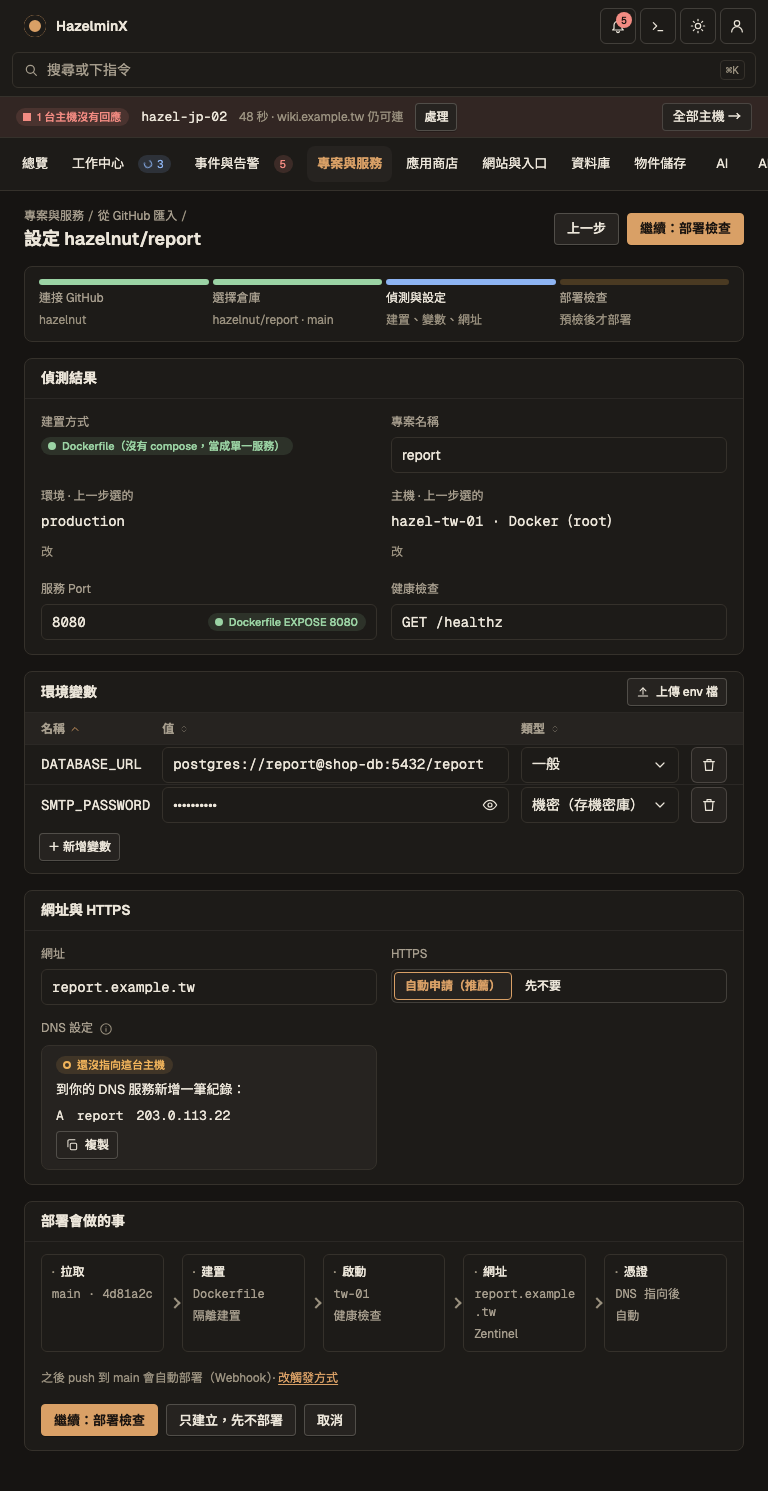
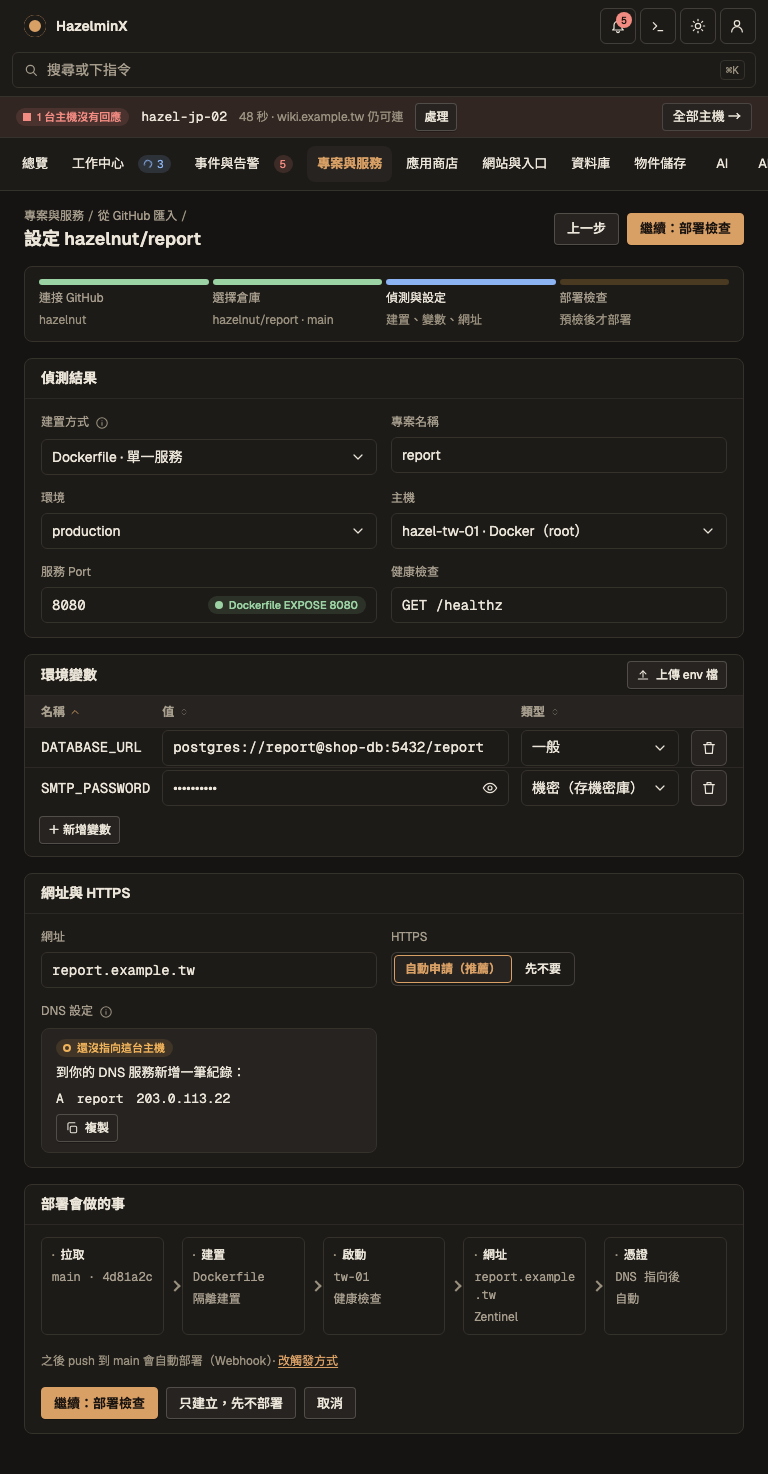
design: make build, environment and host editable dropdowns on the import board

diff --git a/design/screens/ImportConfigure.dc.html b/design/screens/ImportConfigure.dc.html
@@ -496,7 +496,7 @@ body{margin:0}
     <button type="button" class="nv coll" aria-label="收合側欄"><svg viewBox="0 0 24 24" width="16" height="16" fill="none" stroke="currentColor" stroke-width="1.8" stroke-linecap="round" stroke-linejoin="round" aria-hidden="true"><path d="m14 7-5 5 5 5"/><path d="M4 4v16"/></svg><span>收合</span></button>
   </nav><main class="main">
     <div class="phead"><div class="name"><nav class="pcrumb" aria-label="位置"><a href="Projects.dc.html">專案與服務</a><span class="sep" aria-hidden="true">/</span><a href="GitHubSource.dc.html">從 GitHub 匯入</a><span class="sep" aria-hidden="true">/</span></nav><h1>設定 hazelnut/report</h1></div>
-      <div class="wrap" style="margin-left:auto"><a class="btn" href="GitHubSource.dc.html">上一步</a><a class="btn pri" href="ComposeCompat.dc.html">繼續：部署檢查</a></div></div><div class="panel" style="padding:12px 14px"><div class="steps"><div class="step done"><b aria-hidden="true"></b><span>連接 GitHub</span><span class="note">hazelnut</span></div><div class="step done"><b aria-hidden="true"></b><span>選擇倉庫</span><span class="note">hazelnut/report · main</span></div><div class="step cur"><b aria-hidden="true"></b><span>偵測與設定</span><span class="note">建置、變數、網址</span></div><div class="step todo"><b aria-hidden="true"></b><span>部署檢查</span><span class="note">預檢後才部署</span></div></div></div><div class="cg"><section class="panel"><div class="ph"><h2>偵測結果</h2></div><div style="padding:14px 16px;display:grid;grid-template-columns:repeat(auto-fit,minmax(min(240px,100%),1fr));gap:14px"><div class="field"><label>建置方式</label><span class="st ok"><i aria-hidden="true"></i>Dockerfile（沒有 compose，當成單一服務）</span></div><div class="field"><label>專案名稱</label><div class="inp"><span class="" style="flex:1;min-width:0;overflow-wrap:anywhere">report</span></div></div><div class="field"><label>環境 · 上一步選的</label><span class="mono">production</span> <a href="GitHubSource.dc.html" class="note">改</a></div><div class="field"><label>主機 · 上一步選的</label><span class="mono">hazel-tw-01 · Docker（root）</span> <a href="GitHubSource.dc.html" class="note">改</a></div><div class="field"><label>服務 Port</label><div class="inp"><span class="mono" style="flex:1;min-width:0;overflow-wrap:anywhere">8080</span><span class="st ok"><i aria-hidden="true"></i>Dockerfile EXPOSE 8080</span></div></div><div class="field"><label>健康檢查</label><div class="inp"><span class="mono" style="flex:1;min-width:0;overflow-wrap:anywhere">GET /healthz</span></div></div></div></section><section class="panel"><div class="ph"><h2>環境變數</h2><a class="btn sm" style="margin-left:auto" href="EnvUpload.dc.html"><svg viewBox="0 0 24 24" width="14" height="14" fill="none" stroke="currentColor" stroke-width="1.8" stroke-linecap="round" stroke-linejoin="round" aria-hidden="true"><path d="M12 16V5"/><path d="m7 10 5-5 5 5"/><path d="M4 19h16"/></svg>上傳 env 檔</a></div><div class="tw" style="--tc:auto minmax(min(160px,34%),1fr) auto auto"><div class="row hd r0"><span class=""><span class="sortable on">名稱 <svg viewBox="0 0 24 24" width="12" height="12" fill="none" stroke="currentColor" stroke-width="1.8" stroke-linecap="round" stroke-linejoin="round" aria-hidden="true"><path d="m6 15 6-6 6 6"/></svg></span></span><span class=""><span class="sortable">值 <svg viewBox="0 0 24 24" width="12" height="12" fill="none" stroke="currentColor" stroke-width="1.8" stroke-linecap="round" stroke-linejoin="round" aria-hidden="true"><path d="m8 10 4-4 4 4"/><path d="m8 14 4 4 4-4"/></svg></span></span><span class=""><span class="sortable">類型 <svg viewBox="0 0 24 24" width="12" height="12" fill="none" stroke="currentColor" stroke-width="1.8" stroke-linecap="round" stroke-linejoin="round" aria-hidden="true"><path d="m8 10 4-4 4 4"/><path d="m8 14 4 4 4-4"/></svg></span></span><span class=""></span></div><div class="row r0"><span><span class="mono">DATABASE_URL</span></span><span><div class="inp"><span class="mono" style="flex:1;min-width:0;overflow-wrap:anywhere">postgres://report@shop-db:5432/report</span></div></span><span><div class="inp"><span style="flex:1;min-width:0;overflow-wrap:anywhere">一般</span><svg viewBox="0 0 24 24" width="16" height="16" fill="none" stroke="currentColor" stroke-width="1.8" stroke-linecap="round" stroke-linejoin="round" aria-hidden="true"><path d="m6 9 6 6 6-6"/></svg></div></span><span><button type="button" class="ib" aria-label="移除這列"><svg viewBox="0 0 24 24" width="16" height="16" fill="none" stroke="currentColor" stroke-width="1.8" stroke-linecap="round" stroke-linejoin="round" aria-hidden="true"><path d="M4 7h16M9 7V4h6v3M6 7l1 13h10l1-13"/></svg></button></span></div><div class="row r0"><span><span class="mono">SMTP_PASSWORD</span></span><span><div class="inp"><span class="" style="flex:1;min-width:0;overflow-wrap:anywhere">••••••••••</span><svg viewBox="0 0 24 24" width="16" height="16" fill="none" stroke="currentColor" stroke-width="1.8" stroke-linecap="round" stroke-linejoin="round" aria-hidden="true"><path d="M2 12s4-7 10-7 10 7 10 7-4 7-10 7S2 12 2 12z"/><circle cx="12" cy="12" r="3"/></svg></div></span><span><div class="inp"><span style="flex:1;min-width:0;overflow-wrap:anywhere">機密（存機密庫）</span><svg viewBox="0 0 24 24" width="16" height="16" fill="none" stroke="currentColor" stroke-width="1.8" stroke-linecap="round" stroke-linejoin="round" aria-hidden="true"><path d="m6 9 6 6 6-6"/></svg></div></span><span><button type="button" class="ib" aria-label="移除這列"><svg viewBox="0 0 24 24" width="16" height="16" fill="none" stroke="currentColor" stroke-width="1.8" stroke-linecap="round" stroke-linejoin="round" aria-hidden="true"><path d="M4 7h16M9 7V4h6v3M6 7l1 13h10l1-13"/></svg></button></span></div></div><div style="padding:8px 14px 12px"><button type="button" class="btn sm">＋ 新增變數</button></div></section></div><section class="panel"><div class="ph"><h2>網址與 HTTPS</h2></div><div style="padding:14px 16px;display:grid;grid-template-columns:repeat(auto-fit,minmax(min(240px,100%),1fr));gap:14px"><div class="field"><label>網址</label><div class="inp"><span class="mono" style="flex:1;min-width:0;overflow-wrap:anywhere">report.example.tw</span></div></div><div class="field"><label>HTTPS</label><div class="range" role="group" aria-label="HTTPS" style="flex-wrap:wrap"><button type="button" class="btn on" aria-pressed="true">自動申請（推薦）</button><button type="button" class="btn" aria-pressed="false">先不要</button></div></div><div class="field"><label>DNS 設定 <span class="hint" tabindex="0" role="img" aria-label="設定好後這裡會自動變綠，再申請憑證" data-tip="設定好後這裡會自動變綠，再申請憑證"><svg viewBox="0 0 24 24" width="14" height="14" fill="none" stroke="currentColor" stroke-width="1.8" stroke-linecap="round" stroke-linejoin="round" aria-hidden="true"><circle cx="12" cy="12" r="9"/><path d="M12 11v5M12 8h.01"/></svg></span></label><div class="banner" style="display:flex;flex-direction:column;gap:6px;align-items:flex-start"><span class="st warn"><i aria-hidden="true"></i>還沒指向這台主機</span><span>到你的 DNS 服務新增一筆紀錄：</span><span class="mono">A　report　203.0.113.22</span><button type="button" class="btn sm"><svg viewBox="0 0 24 24" width="14" height="14" fill="none" stroke="currentColor" stroke-width="1.8" stroke-linecap="round" stroke-linejoin="round" aria-hidden="true"><rect x="9" y="9" width="11" height="11" rx="2"/><path d="M5 15V5a2 2 0 0 1 2-2h10"/></svg>複製</button></div></div></div></section><section class="panel"><div class="ph"><h2>部署會做的事</h2></div><div style="padding:12px 16px"><div class="pipe" style="--n:5"><div class="pstage todo"><span class="t"><span aria-hidden="true" style="color:var(--faint)">·</span>拉取</span><span class="mono">main · 4d81a2c</span><span></span></div><div class="pstage todo"><span class="t"><span aria-hidden="true" style="color:var(--faint)">·</span>建置</span><span class="mono">Dockerfile</span><span>隔離建置</span></div><div class="pstage todo"><span class="t"><span aria-hidden="true" style="color:var(--faint)">·</span>啟動</span><span class="mono">tw-01</span><span>健康檢查</span></div><div class="pstage todo"><span class="t"><span aria-hidden="true" style="color:var(--faint)">·</span>網址</span><span class="mono">report.example.tw</span><span>Zentinel</span></div><div class="pstage todo"><span class="t"><span aria-hidden="true" style="color:var(--faint)">·</span>憑證</span><span class="mono">DNS 指向後</span><span>自動</span></div></div><div class="note" style="margin-top:8px">之後 push 到 main 會自動部署（Webhook）· <a href="ProjectTriggers.dc.html">改觸發方式</a></div></div><div class="wrap" style="padding:0 16px 14px"><button type="button" class="btn pri">繼續：部署檢查</button><button type="button" class="btn">只建立，先不部署</button><button type="button" class="btn">取消</button></div></section></main></div></div>
+      <div class="wrap" style="margin-left:auto"><a class="btn" href="GitHubSource.dc.html">上一步</a><a class="btn pri" href="ComposeCompat.dc.html">繼續：部署檢查</a></div></div><div class="panel" style="padding:12px 14px"><div class="steps"><div class="step done"><b aria-hidden="true"></b><span>連接 GitHub</span><span class="note">hazelnut</span></div><div class="step done"><b aria-hidden="true"></b><span>選擇倉庫</span><span class="note">hazelnut/report · main</span></div><div class="step cur"><b aria-hidden="true"></b><span>偵測與設定</span><span class="note">建置、變數、網址</span></div><div class="step todo"><b aria-hidden="true"></b><span>部署檢查</span><span class="note">預檢後才部署</span></div></div></div><div class="cg"><section class="panel"><div class="ph"><h2>偵測結果</h2></div><div style="padding:14px 16px;display:grid;grid-template-columns:repeat(auto-fit,minmax(min(240px,100%),1fr));gap:14px"><div class="field"><label>建置方式 <span class="hint" tabindex="0" role="img" aria-label="偵測到 Dockerfile，沒有 compose 檔" data-tip="偵測到 Dockerfile，沒有 compose 檔"><svg viewBox="0 0 24 24" width="14" height="14" fill="none" stroke="currentColor" stroke-width="1.8" stroke-linecap="round" stroke-linejoin="round" aria-hidden="true"><circle cx="12" cy="12" r="9"/><path d="M12 11v5M12 8h.01"/></svg></span></label><div class="inp"><span style="flex:1;min-width:0;overflow-wrap:anywhere">Dockerfile · 單一服務</span><svg viewBox="0 0 24 24" width="16" height="16" fill="none" stroke="currentColor" stroke-width="1.8" stroke-linecap="round" stroke-linejoin="round" aria-hidden="true"><path d="m6 9 6 6 6-6"/></svg></div></div><div class="field"><label>專案名稱</label><div class="inp"><span class="" style="flex:1;min-width:0;overflow-wrap:anywhere">report</span></div></div><div class="field"><label>環境</label><div class="inp"><span style="flex:1;min-width:0;overflow-wrap:anywhere">production</span><svg viewBox="0 0 24 24" width="16" height="16" fill="none" stroke="currentColor" stroke-width="1.8" stroke-linecap="round" stroke-linejoin="round" aria-hidden="true"><path d="m6 9 6 6 6-6"/></svg></div></div><div class="field"><label>主機</label><div class="inp"><span style="flex:1;min-width:0;overflow-wrap:anywhere">hazel-tw-01 · Docker（root）</span><svg viewBox="0 0 24 24" width="16" height="16" fill="none" stroke="currentColor" stroke-width="1.8" stroke-linecap="round" stroke-linejoin="round" aria-hidden="true"><path d="m6 9 6 6 6-6"/></svg></div></div><div class="field"><label>服務 Port</label><div class="inp"><span class="mono" style="flex:1;min-width:0;overflow-wrap:anywhere">8080</span><span class="st ok"><i aria-hidden="true"></i>Dockerfile EXPOSE 8080</span></div></div><div class="field"><label>健康檢查</label><div class="inp"><span class="mono" style="flex:1;min-width:0;overflow-wrap:anywhere">GET /healthz</span></div></div></div></section><section class="panel"><div class="ph"><h2>環境變數</h2><a class="btn sm" style="margin-left:auto" href="EnvUpload.dc.html"><svg viewBox="0 0 24 24" width="14" height="14" fill="none" stroke="currentColor" stroke-width="1.8" stroke-linecap="round" stroke-linejoin="round" aria-hidden="true"><path d="M12 16V5"/><path d="m7 10 5-5 5 5"/><path d="M4 19h16"/></svg>上傳 env 檔</a></div><div class="tw" style="--tc:auto minmax(min(160px,34%),1fr) auto auto"><div class="row hd r0"><span class=""><span class="sortable on">名稱 <svg viewBox="0 0 24 24" width="12" height="12" fill="none" stroke="currentColor" stroke-width="1.8" stroke-linecap="round" stroke-linejoin="round" aria-hidden="true"><path d="m6 15 6-6 6 6"/></svg></span></span><span class=""><span class="sortable">值 <svg viewBox="0 0 24 24" width="12" height="12" fill="none" stroke="currentColor" stroke-width="1.8" stroke-linecap="round" stroke-linejoin="round" aria-hidden="true"><path d="m8 10 4-4 4 4"/><path d="m8 14 4 4 4-4"/></svg></span></span><span class=""><span class="sortable">類型 <svg viewBox="0 0 24 24" width="12" height="12" fill="none" stroke="currentColor" stroke-width="1.8" stroke-linecap="round" stroke-linejoin="round" aria-hidden="true"><path d="m8 10 4-4 4 4"/><path d="m8 14 4 4 4-4"/></svg></span></span><span class=""></span></div><div class="row r0"><span><span class="mono">DATABASE_URL</span></span><span><div class="inp"><span class="mono" style="flex:1;min-width:0;overflow-wrap:anywhere">postgres://report@shop-db:5432/report</span></div></span><span><div class="inp"><span style="flex:1;min-width:0;overflow-wrap:anywhere">一般</span><svg viewBox="0 0 24 24" width="16" height="16" fill="none" stroke="currentColor" stroke-width="1.8" stroke-linecap="round" stroke-linejoin="round" aria-hidden="true"><path d="m6 9 6 6 6-6"/></svg></div></span><span><button type="button" class="ib" aria-label="移除這列"><svg viewBox="0 0 24 24" width="16" height="16" fill="none" stroke="currentColor" stroke-width="1.8" stroke-linecap="round" stroke-linejoin="round" aria-hidden="true"><path d="M4 7h16M9 7V4h6v3M6 7l1 13h10l1-13"/></svg></button></span></div><div class="row r0"><span><span class="mono">SMTP_PASSWORD</span></span><span><div class="inp"><span class="" style="flex:1;min-width:0;overflow-wrap:anywhere">••••••••••</span><svg viewBox="0 0 24 24" width="16" height="16" fill="none" stroke="currentColor" stroke-width="1.8" stroke-linecap="round" stroke-linejoin="round" aria-hidden="true"><path d="M2 12s4-7 10-7 10 7 10 7-4 7-10 7S2 12 2 12z"/><circle cx="12" cy="12" r="3"/></svg></div></span><span><div class="inp"><span style="flex:1;min-width:0;overflow-wrap:anywhere">機密（存機密庫）</span><svg viewBox="0 0 24 24" width="16" height="16" fill="none" stroke="currentColor" stroke-width="1.8" stroke-linecap="round" stroke-linejoin="round" aria-hidden="true"><path d="m6 9 6 6 6-6"/></svg></div></span><span><button type="button" class="ib" aria-label="移除這列"><svg viewBox="0 0 24 24" width="16" height="16" fill="none" stroke="currentColor" stroke-width="1.8" stroke-linecap="round" stroke-linejoin="round" aria-hidden="true"><path d="M4 7h16M9 7V4h6v3M6 7l1 13h10l1-13"/></svg></button></span></div></div><div style="padding:8px 14px 12px"><button type="button" class="btn sm">＋ 新增變數</button></div></section></div><section class="panel"><div class="ph"><h2>網址與 HTTPS</h2></div><div style="padding:14px 16px;display:grid;grid-template-columns:repeat(auto-fit,minmax(min(240px,100%),1fr));gap:14px"><div class="field"><label>網址</label><div class="inp"><span class="mono" style="flex:1;min-width:0;overflow-wrap:anywhere">report.example.tw</span></div></div><div class="field"><label>HTTPS</label><div class="range" role="group" aria-label="HTTPS" style="flex-wrap:wrap"><button type="button" class="btn on" aria-pressed="true">自動申請（推薦）</button><button type="button" class="btn" aria-pressed="false">先不要</button></div></div><div class="field"><label>DNS 設定 <span class="hint" tabindex="0" role="img" aria-label="設定好後這裡會自動變綠，再申請憑證" data-tip="設定好後這裡會自動變綠，再申請憑證"><svg viewBox="0 0 24 24" width="14" height="14" fill="none" stroke="currentColor" stroke-width="1.8" stroke-linecap="round" stroke-linejoin="round" aria-hidden="true"><circle cx="12" cy="12" r="9"/><path d="M12 11v5M12 8h.01"/></svg></span></label><div class="banner" style="display:flex;flex-direction:column;gap:6px;align-items:flex-start"><span class="st warn"><i aria-hidden="true"></i>還沒指向這台主機</span><span>到你的 DNS 服務新增一筆紀錄：</span><span class="mono">A　report　203.0.113.22</span><button type="button" class="btn sm"><svg viewBox="0 0 24 24" width="14" height="14" fill="none" stroke="currentColor" stroke-width="1.8" stroke-linecap="round" stroke-linejoin="round" aria-hidden="true"><rect x="9" y="9" width="11" height="11" rx="2"/><path d="M5 15V5a2 2 0 0 1 2-2h10"/></svg>複製</button></div></div></div></section><section class="panel"><div class="ph"><h2>部署會做的事</h2></div><div style="padding:12px 16px"><div class="pipe" style="--n:5"><div class="pstage todo"><span class="t"><span aria-hidden="true" style="color:var(--faint)">·</span>拉取</span><span class="mono">main · 4d81a2c</span><span></span></div><div class="pstage todo"><span class="t"><span aria-hidden="true" style="color:var(--faint)">·</span>建置</span><span class="mono">Dockerfile</span><span>隔離建置</span></div><div class="pstage todo"><span class="t"><span aria-hidden="true" style="color:var(--faint)">·</span>啟動</span><span class="mono">tw-01</span><span>健康檢查</span></div><div class="pstage todo"><span class="t"><span aria-hidden="true" style="color:var(--faint)">·</span>網址</span><span class="mono">report.example.tw</span><span>Zentinel</span></div><div class="pstage todo"><span class="t"><span aria-hidden="true" style="color:var(--faint)">·</span>憑證</span><span class="mono">DNS 指向後</span><span>自動</span></div></div><div class="note" style="margin-top:8px">之後 push 到 main 會自動部署（Webhook）· <a href="ProjectTriggers.dc.html">改觸發方式</a></div></div><div class="wrap" style="padding:0 16px 14px"><button type="button" class="btn pri">繼續：部署檢查</button><button type="button" class="btn">只建立，先不部署</button><button type="button" class="btn">取消</button></div></section></main></div></div>
 </x-dc>
 <script type="text/x-dc" data-dc-script data-props='{"light":{"editor":"boolean","default":false,"section":"主題"},"$preview":{"width":1440,"height":1300}}'>
 class Component extends DCLogic {

diff --git a/design/tools/build_screens.py b/design/tools/build_screens.py
@@ -4190,9 +4190,9 @@ def import_configure() -> str:
     head = _form_head([("專案與服務", "Projects.dc.html"), ("從 GitHub 匯入", "GitHubSource.dc.html")], "設定 hazelnut/report", '<a class="btn" href="GitHubSource.dc.html">上一步</a><a class="btn pri" href="ComposeCompat.dc.html">繼續：部署檢查</a>')
     stepper = f'<div class="panel" style="padding:12px 14px">{U.steps([("連接 GitHub", "done", "hazelnut"), ("選擇倉庫", "done", "hazelnut/report · main"), ("偵測與設定", "cur", "建置、變數、網址"), ("部署檢查", "todo", "預檢後才部署")])}</div>'
     detect = _fp("偵測結果", _grid(
-        _fld("建置方式", U.status("ok", "Dockerfile（沒有 compose，當成單一服務）")),
-        _fld("專案名稱", _in("report")), _fld("環境 · 上一步選的", '<span class="mono">production</span> <a href="GitHubSource.dc.html" class="note">改</a>'),
-        _fld("主機 · 上一步選的", '<span class="mono">hazel-tw-01 · Docker（root）</span> <a href="GitHubSource.dc.html" class="note">改</a>'),
+        _fld("建置方式", _dd("Dockerfile · 單一服務"), "偵測到 Dockerfile，沒有 compose 檔"),
+        _fld("專案名稱", _in("report")), _fld("環境", _dd("production")),
+        _fld("主機", _dd("hazel-tw-01 · Docker（root）")),
         _fld("服務 Port", _in("8080", mono=True, tail=U.status("ok", "Dockerfile EXPOSE 8080"))),
         _fld("健康檢查", _in("GET /healthz", mono=True))))
     envs = _fp("環境變數", _erows(["名稱", "值", "類型"], [
